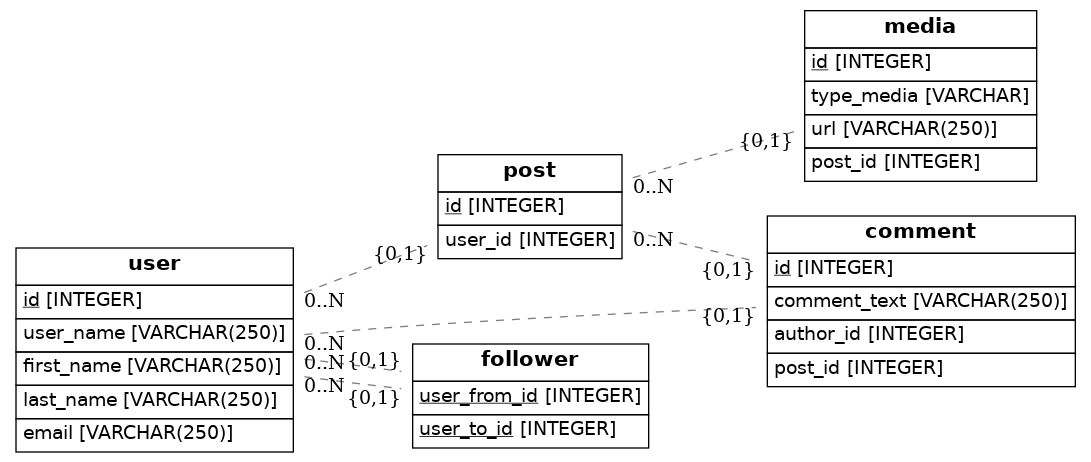
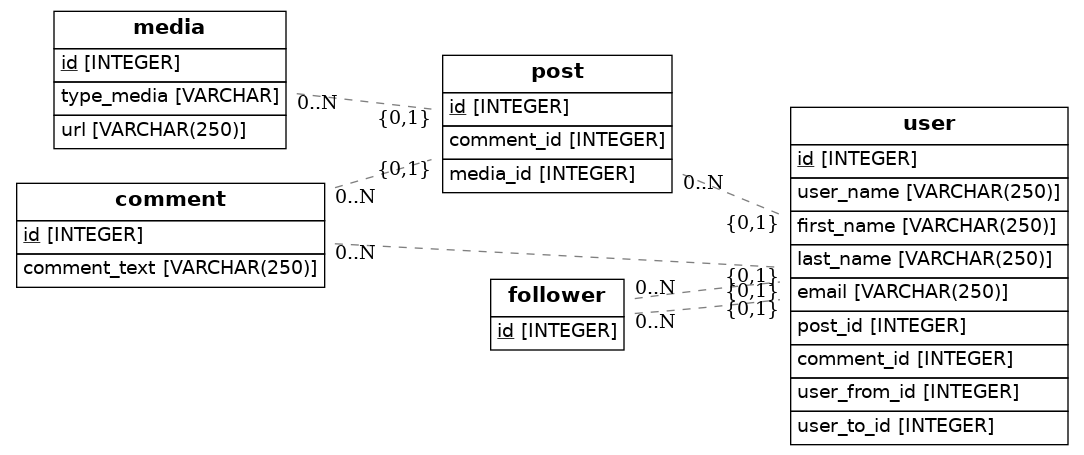
finished

Changed region(s): [[0.0, 0.0, 1.0, 0.9846]]

diff --git a/src/models.py b/src/models.py
@@ -15,12 +15,16 @@ class User(Base):
     first_name = Column(String(250), unique=False, nullable=False)
     last_name = Column(String(250), unique=False, nullable=False)
     email = Column(String(250), unique=True, nullable=False)
+    post_id = Column(Integer, ForeignKey('post.id'))
+    comment_id = Column(Integer, ForeignKey('comment.id'))
+    user_from_id = Column(Integer, ForeignKey('follower.id'))
+    user_to_id = Column(Integer, ForeignKey('follower.id'))
 
 class Post(Base):
     __tablename__ = 'post'
     id = Column(Integer, primary_key=True)
-    user_id = Column(Integer, ForeignKey('user.id'))
-    user = relationship(User)
+    comment_id = Column(Integer, ForeignKey('comment.id'))
+    media_id = Column(Integer, ForeignKey('media.id'))
 
 
 class Media(Base):
@@ -28,23 +32,18 @@ class Media(Base):
     id = Column(Integer, primary_key=True)
     type_media = Column(Enum, unique=False, nullable=False)
     url = Column(String(250), unique=False, nullable=False)
-    post_id = Column(Integer, ForeignKey('post.id'))
-    post = relationship(Post)
+
 
 class Comment(Base):
     __tablename__ = 'comment'
     id = Column(Integer, primary_key=True)
     comment_text = Column(String(250), unique=False, nullable=False)
-    author_id = Column(Integer, ForeignKey('user.id'))
-    post_id = Column(Integer, ForeignKey('post.id'))
-    author_user = relationship(User)
-
+    
 class Follower(Base):
     __tablename__ = 'follower'
-    user_from_id = Column(Integer, ForeignKey('user.id'), primary_key=True)
-    user_to_id = Column(Integer, ForeignKey('user.id'), primary_key=True)
-    user_from = relationship(User)
-    user_to = relationship(User)
+    id = Column(Integer, primary_key=True)
+
+
 
     
     def to_dict(self):
